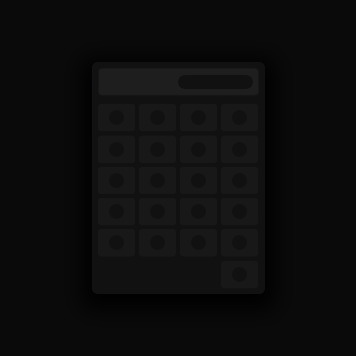
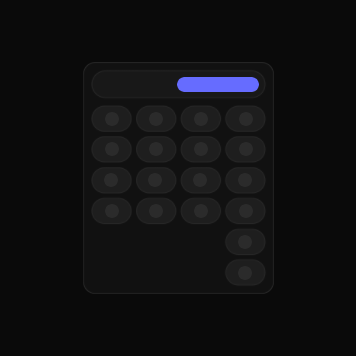
redesign: calculator project

diff --git a/projects/calculator/index.html b/projects/calculator/index.html
@@ -1,48 +1,74 @@
 <!DOCTYPE html>
-<html lang="en">
+<html>
     <head>
         <meta charset="UTF-8">
+        <meta http-equiv="X-UA-Compatible" content="IE=edge">
         <meta name="viewport" content="width=device-width, initial-scale=1.0">
-        <title>SpaceProject - Calculator</title>
+        <meta property="og:title" content="SpaceLink">
+        <meta property="og:url" content="https://spaceenergy.github.io/SpaceLink">
+        <meta name="theme-color" content="#40009D">
         <link rel="shortcut icon" href="/images/favicon.svg" type="image/x-icon">
-        <link rel="stylesheet" href="index.css">
-        <link rel="stylesheet" href="/projects/index.css">
+        <link href="/index.css" rel="stylesheet" type="text/css" />
+        <link href="index.css" rel="stylesheet" type="text/css" />
+        <link href="/projects/index.css" rel="stylesheet" type="text/css" />
+        <title>SpaceLink - Calculator</title>
     </head>
     <body>
-        <h1 class="header" id="header">SpaceProject - Calculator</h1>
+        <div class="full-content">
+            <div class="note">The page is still under construction</div>
+            <header class="header">
+                <img class="header-avatar" src="/images/calculator.png">
+                <div class="infos">
+                    <h1>Calculator</h1>
+                    <p>Second JavaScript project</p>
+                </div>
+            </header>
+            <div class="content">
+                <div class="navigation" id="main" style="justify-content: start;">
+                    <a href="../js/"><div class="tab"><img src="/images/arrow-left.svg" style="width:14px;margin-right:6px;">Back</div></a>
+                </div>
+                <div class="divider"></div>
 
-        <div class="calculator">
-            <input type="text" id="display" disabled>
-
-            <div class="grid">
-                <button onclick="appendToDisplay('%')">%</button>
-                <button onclick="appendToDisplay('ce')">CE</button>
-                <button onclick="clearDisplay()">C</button>
-                <button onclick="appendToDisplay('back')">⌫</button>
-                <button onclick="appendToDisplay('7')">7</button>
-                <button onclick="appendToDisplay('8')">8</button>
-                <button onclick="appendToDisplay('9')">9</button>
-                <button onclick="appendToDisplay('/')">÷</button>
-                <button onclick="appendToDisplay('4')">4</button>
-                <button onclick="appendToDisplay('5')">5</button>
-                <button onclick="appendToDisplay('6')">6</button>
-                <button onclick="appendToDisplay('*')">×</button>
-                <button onclick="appendToDisplay('1')">1</button>
-                <button onclick="appendToDisplay('2')">2</button>
-                <button onclick="appendToDisplay('3')">3</button>
-                <button onclick="appendToDisplay('-')">-</button>
-                <button onclick="appendToDisplay('negate')">±</button>
-                <button onclick="appendToDisplay('0')">0</button>
-                <button onclick="appendToDisplay('.')">.</button>
-                <button onclick="appendToDisplay('+')">+</button>
-                <button style="background-color:unset;cursor:default;"></button>
-                <button style="background-color:unset;cursor:default;"></button>
-                <button style="background-color:unset;cursor:default;"></button>
-                <button onclick="calculateResult('=')">=</button>
+                <div class="containers">
+                    <div class="card-container" id="javascript">
+                        <h2>Calculator</h2>
+                        <div class="calculator">
+                            <input class="result" type="text" id="display" placeholder="not working" disabled>
+                            <div class="grid">
+                                <div class="calc-button" onclick="appendToDisplay('7')">7</div>
+                                <div class="calc-button" onclick="appendToDisplay('8')">8</div>
+                                <div class="calc-button" onclick="appendToDisplay('9')">9</div>
+                                <div class="calc-button" onclick="clearDisplay()">C</div>
+                                <div class="calc-button" onclick="appendToDisplay('4')">4</div>
+                                <div class="calc-button" onclick="appendToDisplay('5')">5</div>
+                                <div class="calc-button" onclick="appendToDisplay('6')">6</div>
+                                <div class="calc-button" onclick="appendToDisplay('/')">÷</div>
+                                <div class="calc-button" onclick="appendToDisplay('1')">1</div>
+                                <div class="calc-button" onclick="appendToDisplay('2')">2</div>
+                                <div class="calc-button" onclick="appendToDisplay('3')">3</div>
+                                <div class="calc-button" onclick="appendToDisplay('*')">×</div>
+                                <div class="calc-button" onclick="appendToDisplay('negate')">±</div>
+                                <div class="calc-button" onclick="appendToDisplay('0')">0</div>
+                                <div class="calc-button" onclick="appendToDisplay('.')">.</div>
+                                <div class="calc-button" onclick="appendToDisplay('-')">-</div>
+                                <div></div>
+                                <div></div>
+                                <div></div>
+                                <div class="calc-button" onclick="appendToDisplay('+')">+</div>
+                                <div></div>
+                                <div></div>
+                                <div></div>
+                                <div class="calc-button" onclick="calculateResult('=')">=</div>
+                            </div>
+                        </div>
+                    </div>
+                </div>
+                <div class="footer">
+                    <p>Made by SpaceEnergy with ❤</p>
+                </div>
             </div>
         </div>
 
-        <a class="homeButton" href="../js/">Back</a>
         <script src="index.js"></script>
     </body>
 </html>

diff --git a/projects/calculator/index.css b/projects/calculator/index.css
@@ -1,58 +1,66 @@
-body {
-    display: flex;
-    justify-content: center;
-    align-items: center;
+.card-container {
     flex-direction: column;
-    height: 100vh;
-    margin: 0;
-    font-family: Arial, Helvetica, sans-serif;
-    color: #fff;
-    background-color: #0a0a0a;
 }
 
+
 .calculator {
-    height: fit-content;
-    width: fit-content;
-    margin: 30px;
-    padding: 15px;
-    border-radius: 8px;
+    display: flex;
+    flex-direction: column;
+    margin-top: 10px;
+    padding: 16px;
+    border: 2px solid #2b2b2b;
+    border-radius: 26px;
     background-color: #111111;
 }
 
-.grid {
-    display: grid;
-    grid-template-columns: repeat(4, 1fr);
-    grid-column-gap: 10px;
-    grid-row-gap: 10px;
-}
-
-input {
-    height: 50px;
-    width: calc(350px - 15px);
-    margin-bottom: 20px;
-    padding: 5px 10px;
-    font-size: 32px;
-    font-weight: 600;
-    border: none;
-    outline: none;
-    border-radius: 8px;
+.result {
+    text-align: end;
+    margin-bottom: 16px;
+    padding: 10px 16px;
+    font-size: 24px;
+    font-weight: 800;
+    border: 2px solid #2b2b2b;
+    border-radius: 32px;
     color: #666CFF;
-    background-color: #1e1e1e;
+    background-color: #181818;
 }
 
-button {
-    height: 60px;
-    width: 80px;
-    font-size: 32px;
-    border: none;
-    outline: none;
-    border-radius: 8px;
-    color: #fff;
-    background-color: #181818;
-    transition: border-radius .15s ease-in-out, background-color .15s ease-in-out;
+.card-container .grid {
+    display: grid;
+    grid-template-columns: repeat(4,minmax(0,1fr));
+    grid-template-rows: 1fr;
+    gap: 10px;
+    margin: 0;
 }
-button:hover {
+
+.calc-button {
+    text-align: center;
+    padding: 10px;
+    font-size: 24px;
+    border: 2px solid #2b2b2b;
+    border-radius: 40px;
+    background-color: #1e1e1e;
+    transition: 180ms;
+}
+.calc-button:hover {
     cursor: pointer;
-    border-radius: 12px;
-    background-color: #1f1f1f;
+    border-radius: 26px;
+    background-color: #2b2b2b;
+}
+
+
+@media (max-width: 475px) {
+    .calc-button {
+        font-size: 18px;
+    }
+    
+    .count-button:nth-child(1) {
+        order: 3;
+    }
+    .count-button:nth-child(2) {
+        order: 2;
+    }
+    .count-button:nth-child(3) {
+        order: 1;
+    }
 }
